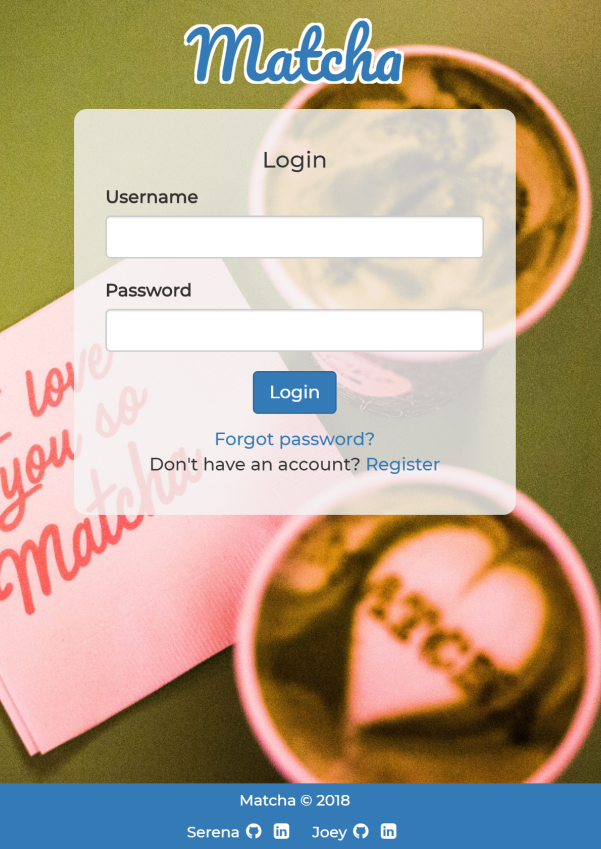
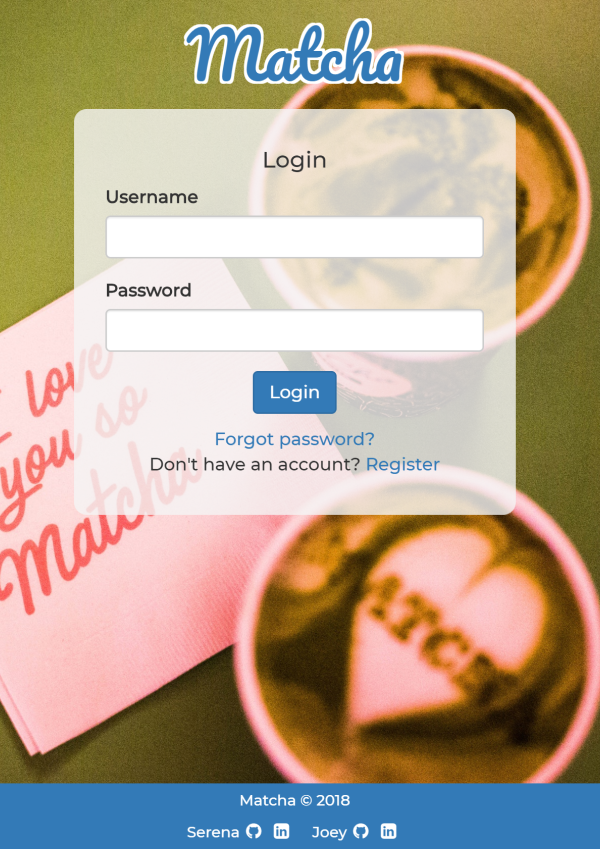
Changing all pictures to 600 width. Adding in the entries for ThriveSync and Dabbu.

diff --git a/_includes/portfolio.html b/_includes/portfolio.html
@@ -8,9 +8,10 @@
 
         <!-- #filters -->
         <ul id="filters" class="clearfix">
-            <li><span class="filter active" data-filter="catWeb catMobile catSoftware catOther">All</span></li>
+            <li><span class="filter active" data-filter="catWeb catMobile catSoftware catBlockchain catOther">All</span></li>
             <li><span class="filter" data-filter="catWeb">Web Development</span></li>
             <li><span class="filter" data-filter="catMobile">Mobile Development</span></li>
+            <li><span class="filter" data-filter="catBlockchain">Blockchain Development</span></li>
         </ul>
         <!-- /#filters -->
 
@@ -88,6 +89,46 @@
                                 <p class="text-title">Petra SLO</p>
                                 <p class="text-description">Web Development</p>
                                 <p class="text-category">A summer project for the restaurant Petra in San Luis Obispo. I collaborated with the designer on imaging and logo for the site and also used AJAX for the site loading.</p>
+                            </div>
+                            <div class="label-bg"></div>
+                        </div>
+                    </a>
+                </div>
+                <!-- /.portfolio-wrapper -->
+            </div>      
+            <!-- /.portfolio -->
+
+            <!-- .portfolio -->
+            <div class="portfolio catWeb" data-cat="catWeb">    
+                <!-- .portfolio-wrapper -->
+                <div class="portfolio-wrapper">     
+                    <a href="https://angel.co/thrivestreams" title="Digital Mental Health for Employees" target="_blank">
+                        <img src="images/portfolio/thrivesync-photo.png" alt="ThriveSync" />
+                        <div class="label">
+                            <div class="label-text">
+                                <p class="text-title">ThriveSync</p>
+                                <p class="text-description">Web Development</p>
+                                <p class="text-category">A predictive modeling web and mobile application for mental health a close, personal friend of mine founded. I led the Ruby on Rails development and internationalization efforts.</p>
+                            </div>
+                            <div class="label-bg"></div>
+                        </div>
+                    </a>
+                </div>
+                <!-- /.portfolio-wrapper -->
+            </div>      
+            <!-- /.portfolio -->
+
+            <!-- .portfolio -->
+            <div class="portfolio catWeb" data-cat="catBlockchain">    
+                <!-- .portfolio-wrapper -->
+                <div class="portfolio-wrapper">     
+                    <a href="#" title="Private Capital Lending on the Blockchain" target="_blank">
+                        <img src="images/portfolio/7.jpg" alt="Dabbu" />
+                        <div class="label">
+                            <div class="label-text">
+                                <p class="text-title">Dabbu</p>
+                                <p class="text-description">Blockchain Development</p>
+                                <p class="text-category">Private capital lending built on the blockchain. I currently lead Solidity contract development and the integration of both Enigma for private data encryption and Web3 to tie the front and back-end together.</p>
                             </div>
                             <div class="label-bg"></div>
                         </div>
